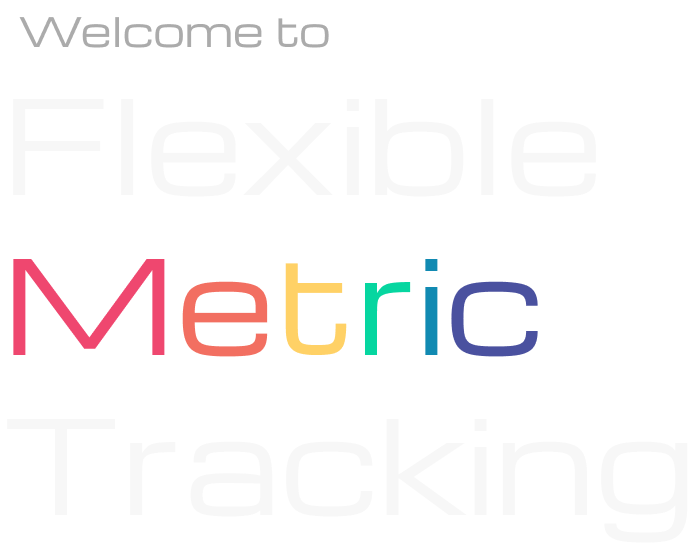
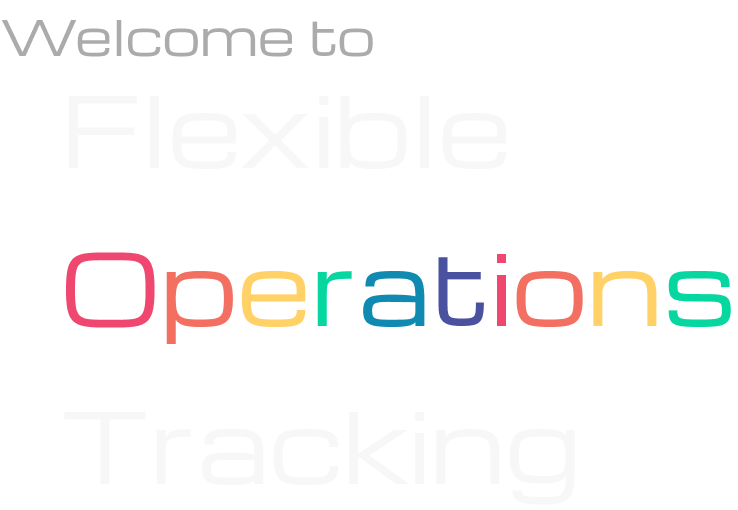
fix: updates to landing

Changed region(s): [[0.0, 0.4706, 0.9943, 0.6765], [0.0, 0.0294, 0.5122, 0.1176]]

diff --git a/frontend/app/landing.jsx b/frontend/app/landing.jsx
@@ -1,11 +1,10 @@
 // Author(s): Matthew Parkinson
 
-import React, { useState, useEffect } from 'react';
-import { Redirect, useRouter, router, Link } from "expo-router";
+import React from 'react';
 import { View, Image, ImageBackground, StyleSheet } from 'react-native';
-import { PaperProvider, Text } from 'react-native-paper';
-import BasicButton from '../components/common/buttons/BasicButton';
 import { useTheme } from 'react-native-paper';
+import { router } from "expo-router";
+import BasicButton from '../components/common/buttons/BasicButton';
 import ResponsiveScreen from '../components/layout/ResponsiveScreen';
 
 const Landing = () => {
@@ -17,48 +16,79 @@ const Landing = () => {
 			style={styles.background}
 			resizeMode='cover'
 		>	
-			<ResponsiveScreen>
-				<Image style={{ width:"100%", height:200, resizeMode: 'contain' }}
-					source={require('../assets/images/Logo.png')}>
-				</Image>
-				<Image style={{ width:"100%", height:200, resizeMode: 'contain' }}
-					source={require('../assets/images/LandingTextForeground.png')}>
-				</Image>
-				<View style={{ padding: 20, gap: 40 }}>
-					<BasicButton
-						label='Login'
-						onPress={() => router.navigate('/login-signup?isSignUp=false')}
-						fullWidth
-					/>
-					<BasicButton
-						label='Sign Up'
-						onPress={() => router.navigate('/login-signup?isSignUp=true')}
-						fullWidth
-					/>
+			<ResponsiveScreen transparent>
+				<View style={styles.container}>
+					
+					{/* --- Top Logo Section --- */}
+					<View style={styles.header}>
+						<Image
+							source={require('../assets/images/Logo.png')}
+							style={styles.logo}
+						/>
+					</View>
+
+					{/* --- Center Foreground & Buttons --- */}
+					<View style={styles.centerSection}>
+						<Image
+							source={require('../assets/images/LandingTextForeground.png')}
+							style={styles.foregroundImage}
+						/>
+
+						<View style={styles.buttonContainer}>
+							<BasicButton
+								label='Login'
+								onPress={() => router.navigate('/login-signup?isSignUp=false')}
+								fullWidth
+							/>
+							<BasicButton
+								label='Sign Up'
+								onPress={() => router.navigate('/login-signup?isSignUp=true')}
+								fullWidth
+							/>
+						</View>
+					</View>
 				</View>
 			</ResponsiveScreen>
 		</ImageBackground>
 	);
-}
+};
 
 const styles = StyleSheet.create({
 	background: {
 		flex: 1,
 	},
-	content: {
+	container: {
 		flex: 1,
-		padding: 5,
-		gap: 30,
-		justifyContent: 'center',
+		padding: 20,
 	},
+	header: {
+		width: '100%',
+		alignItems: 'center',
+		marginTop: 40,
+	},
+	logo: {
+		width: '100%',
+		height: 100,
+		resizeMode: 'contain',
+	},
+
+	// This section takes remaining space and centers content
+	centerSection: {
+		flex: 1,
+		alignItems: 'center',
+		justifyContent: 'center',
+		gap: 30,
+	},
+
 	foregroundImage: {
-		width: 380,
-		height: 280,
+		width: 320,
+		height: 220,
 		resizeMode: 'contain',
 	},
 	buttonContainer: {
-		padding: 20,
-		gap: 30,
+		width: '100%',
+		gap: 20,
+		marginTop: 40,
 	},
 });
 

diff --git a/frontend/components/layout/ResponsiveScreen.jsx b/frontend/components/layout/ResponsiveScreen.jsx
@@ -11,10 +11,13 @@ export default function ResponsiveScreen({
     padded = true,
     center = true,
     header,
-    footer
+    footer,
+    transparent = false,
 }) {
     const contentStyles = [styles.content, padded && styles.padded, center && styles.centerGrow]
     const theme = useTheme();
+
+    const safeBackground = transparent ? 'transparent' : theme.colors.background;
 
     const Body = scroll ? (
         <KeyboardAwareScrollView
@@ -43,10 +46,13 @@ export default function ResponsiveScreen({
     )
 
     return (
-        <SafeAreaView style={[styles.safe, { backgroundColor: theme.colors.background }]} edges={["left", "right"]}>
-            {header ? (<View style={styles.header}>
-                {header}
-            </View>) : null }
+
+        <SafeAreaView style={[styles.safe, { backgroundColor: safeBackground }]} edges={["left", "right"]}>
+            {header ? (
+                <View style={styles.header}>
+                    {header}
+                </View>
+            ) : null }
 
             <View style={styles.body}>
                 {Body}
